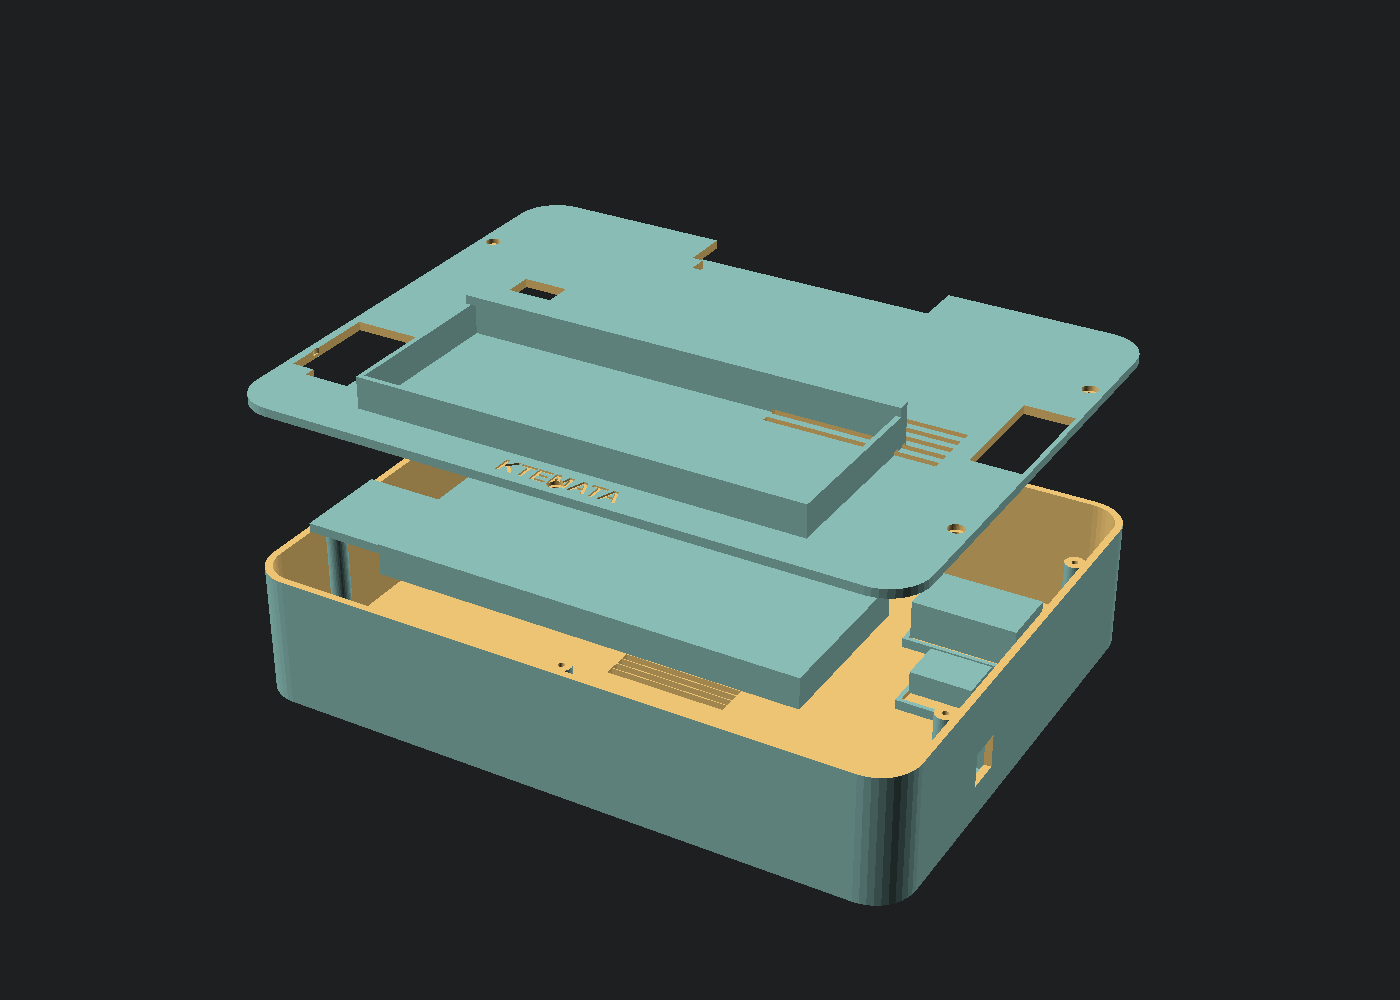
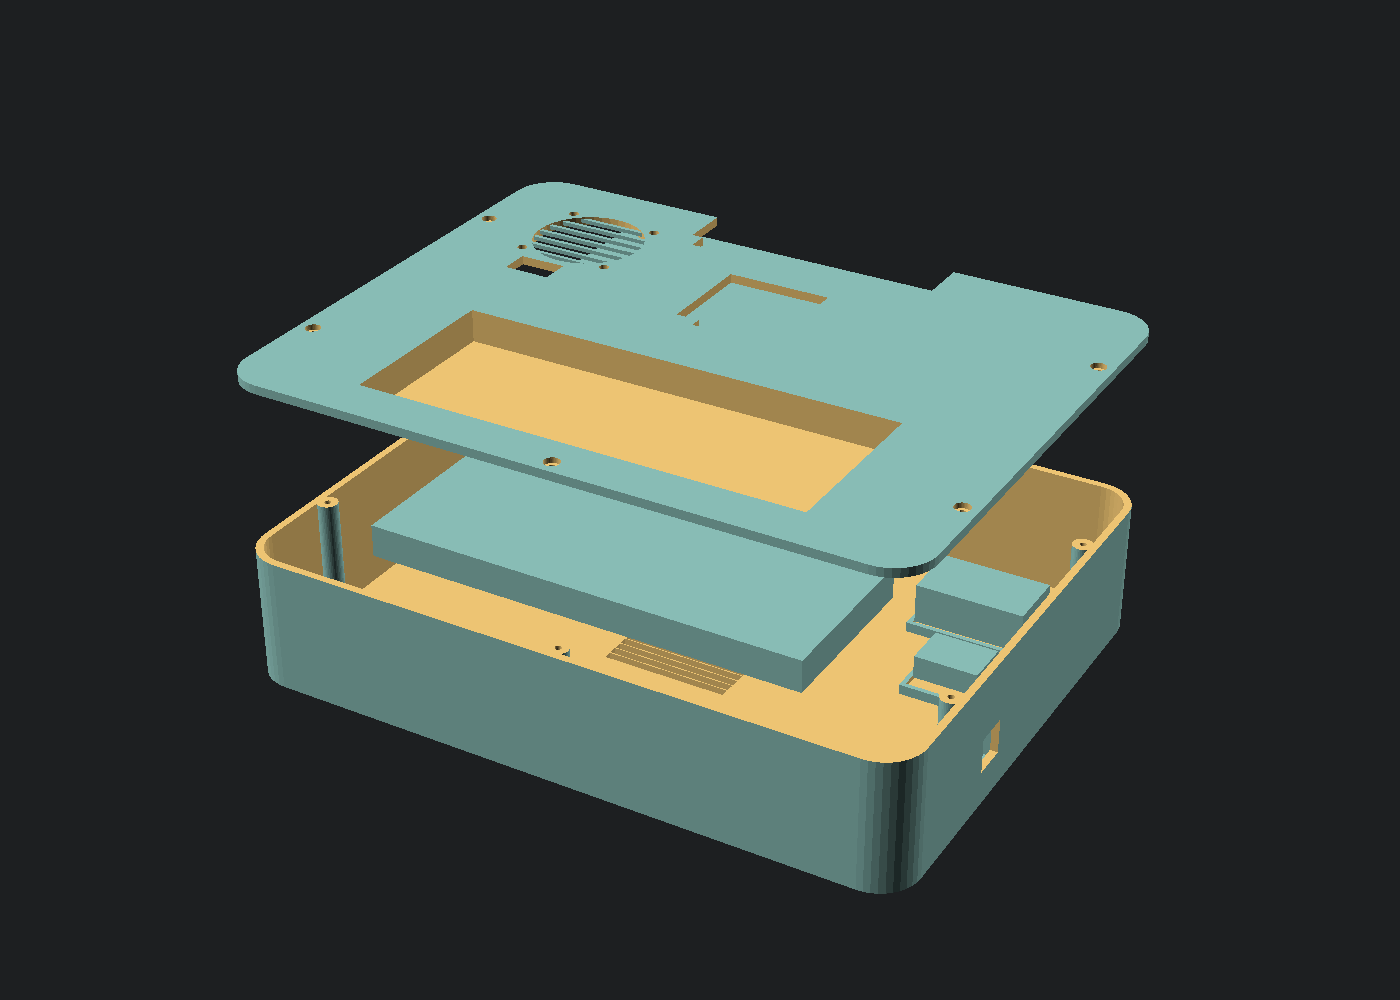
minor changes pros and cons

diff --git a/site/comparisons.html b/site/comparisons.html
@@ -122,24 +122,21 @@
   <div class="pro">
     <h3>Ktemata r5</h3>
     <ul>
-      <li><strong>Works alone.</strong> 720 × 1280 touchscreen, keyboard, trackpad and battery in one case; no phone, no DHCP, no browser tab.</li>
+      <li><strong>Works alone.</strong> 720 × 1280 touchscreen, keyboard, trackpad and battery in one rugged case.</li>
       <li><strong>Very low draw for a full computer.</strong> 4.0 W screen off, 5.1 W with the display lit; the Pi&nbsp;5's own idle is 3.0 W.</li>
-      <li><strong>Carries its power.</strong> 22.2 Wh pack, 2.6–4.2 h, charged at 8.4 V from mains, solar via MPPT, or the separate hand crank.</li>
-      <li><strong>Hotspot included, and a real off switch.</strong> Same dual-band radio as any Pi; one install flag serves 20 clients and leaves the screen usable. For a build that must not transmit, <code>--no-radio</code> disables the on-board Wi-Fi and Bluetooth in the firmware (<code>dtoverlay=disable-wifi-pi5</code>/<code>disable-bt-pi5</code> on a Pi&nbsp;5), persistently and before the kernel probes them — at boot the device is silent, with no AP, no client association and no Bluetooth.</li>
-      <li><strong>512 GB NVMe</strong> in a standard M.2 socket — a drive swap, not a card replacement.</li>
-      <li><strong>Field-repairable and inspectable.</strong> Standard Pi, standard display, standard HAT, Peli case, published STLs; the firmware is a thousand lines you can read.</li>
+      <li><strong>Carries its power.</strong> 22.2 Wh pack, 2.6–4.2 h, charged at 8.4 V from mains, solar via MPPT, or a separate hand crank.</li>
+      <li><strong>Hotspot included, and a real off switch.</strong> Same dual-band radio as any Pi; one install flag serves 20 clients and leaves the screen usable. For a build that must not transmit, <code>--no-radio</code> disables the on-board Wi-Fi and Bluetooth in the firmware.</li>
+      <li><strong>512 GB NVMe SSD</strong> in a standard M.2 socket — a drive swap, not a card replacement.</li>
+      <li><strong>Field-repairable, upgradable and inspectable.</strong> Standard Pi, standard display, standard HAT, Peli case, published STLs; the firmware is a thousand lines you can read.</li>
       <li><strong>Buildable and hackable.</strong> Parametric OpenSCAD, an export toolchain, a post-install script and a hotspot installer — all in the repository, no vendor in the loop.</li>
     </ul>
   </div>
   <div class="con">
     <h3>…and what it costs you</h3>
     <ul>
-      <li><strong>You build it.</strong> Printer, soldering iron for the pack leads, firmware flashing, and the willingness to debug a buck converter.</li>
+      <li><strong>You build it.</strong> 3D printing, assembly, soldering, firmware flashing, and the willingness to debug.</li>
       <li><strong>≈ €635</strong> against €271 for a Prepper Disk, and no warranty, no support desk.</li>
-      <li><strong>Big and heavy.</strong> ~8.3 L and ~1.6 kg in a Peli 1200, against 0.16 L and ~0.2 kg.</li>
-      <li><strong>Throttles under sustained load</strong> — the sealed host has no vent, so a long CPU job hits 80 °C.</li>
       <li><strong>Content is what you download.</strong> No licensed field guides, no curated updates.</li>
-      <li><strong>EMP protection is a plan</strong>, not a part you can buy today.</li>
     </ul>
   </div>
 </div>
